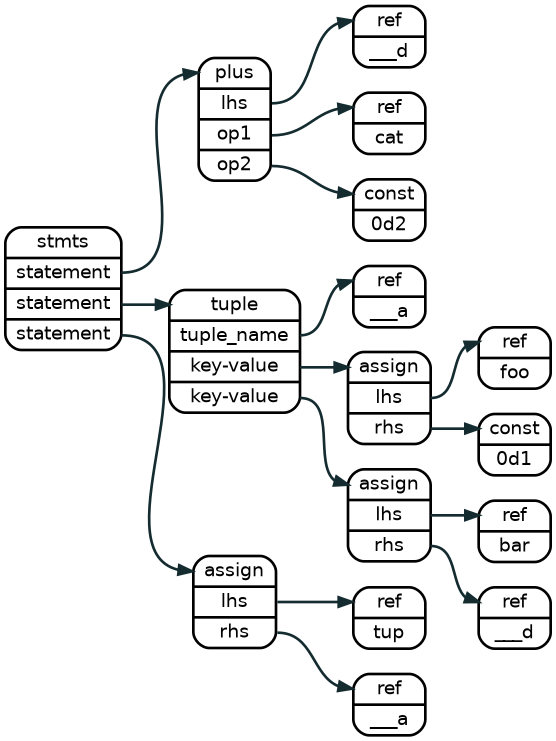
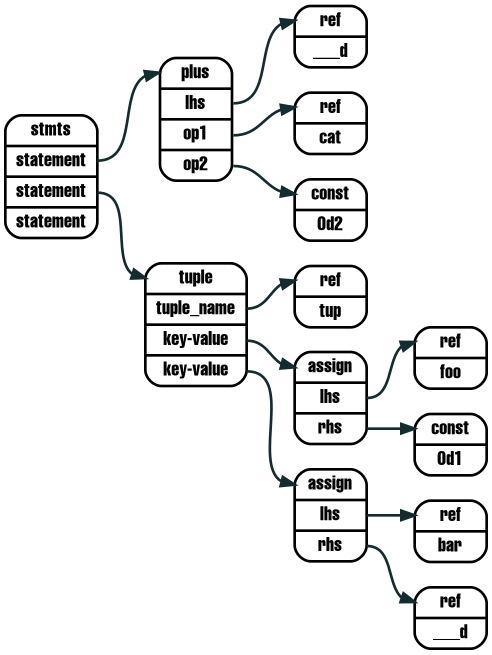
change tuple name connection

Changed region(s): [[0.0, 0.0, 1.0, 1.0], [0.2439, 0.6412, 0.2744, 0.7328], [0.2744, 0.7328, 0.3049, 0.7634]]

diff --git a/index.html b/index.html
@@ -703,7 +703,7 @@ tup_t tup;
 <span class="hljs-keyword">auto</span> idx_op2     = lnast-&gt;add_child(idx_plus,   LNast_node::create_const   (token_4)); <span class="hljs-comment">//string_view = "0d2"</span>
 
 <span class="hljs-keyword">auto</span> idx_tup     = lnast-&gt;add_child(idx_stmts0, Lnast_node::create_tuple   (token_5)); 
-<span class="hljs-keyword">auto</span> idx_tname   = lnast-&gt;add_child(idx_tup,    Lnast_node::create_ref     (token_6)); <span class="hljs-comment">//string_view = "___a"</span>
+<span class="hljs-keyword">auto</span> idx_tname   = lnast-&gt;add_child(idx_tup,    Lnast_node::create_ref     (token_6)); <span class="hljs-comment">//string_view = "tup"</span>
 <span class="hljs-keyword">auto</span> idx_assign  = lnast-&gt;add_child(idx_tup,    Lnast_node::create_assign  (token_7));
 <span class="hljs-keyword">auto</span> idx_lhs     = lnast-&gt;add_child(idx_assign, LNast_node::create_ref     (token_8)); <span class="hljs-comment">//string_view = "foo"</span>
 <span class="hljs-keyword">auto</span> idx_op3     = lnast-&gt;add_child(idx_assign, LNast_node::create_const   (token_9)); <span class="hljs-comment">//string_view = "0d1"</span>
@@ -711,10 +711,6 @@ tup_t tup;
 <span class="hljs-keyword">auto</span> idx_assign  = lnast-&gt;add_child(idx_tup,    Lnast_node::create_assign  (token_a));
 <span class="hljs-keyword">auto</span> idx_lhs     = lnast-&gt;add_child(idx_assign, LNast_node::create_ref     (token_b)); <span class="hljs-comment">//string_view = "bar"</span>
 <span class="hljs-keyword">auto</span> idx_op4     = lnast-&gt;add_child(idx_assign, LNast_node::create_ref     (token_c)); <span class="hljs-comment">//string_view = "___d"</span>
-
-<span class="hljs-keyword">auto</span> idx_assign  = lnast-&gt;add_child(idx_stmts0, Lnast_node::create_assign  (token_d));
-<span class="hljs-keyword">auto</span> idx_lhs     = lnast-&gt;add_child(idx_assign, LNast_node::create_ref     (token_e)); <span class="hljs-comment">//string_view = "tup"</span>
-<span class="hljs-keyword">auto</span> idx_op6     = lnast-&gt;add_child(idx_assign, LNast_node::create_ref     (token_f)); <span class="hljs-comment">//string_view = "___a"</span>
 </code></pre>
 <p><img src="source/graphviz/tuple.png" alt="assign"></p>
 <h2 id="tuple-concatenation-statement">Tuple Concatenation Statement</h2>
@@ -729,10 +725,9 @@ tup = tup ++ (4, dog)
 <pre class="highlight tab tab-shell"><code>// CFG 
 1       0       x       SEQ0
 4       1       x       0       33      +       ___d    cat     0d2
-2       1       x       TUP0    ___a
+2       1       x       TUP0    tup
 3       2       x       0       33      =       foo     0d1
 5       2       x       0       33      =       bar     ___d
-6       1       x       0       33      =       tup     ___a
 7       1       x       TUP1    ___f
 8       7       x       35      54      =       null    0d4
 9       7       x       35      54      =       null    dog
@@ -746,7 +741,7 @@ tup = tup ++ (4, dog)
 <span class="hljs-keyword">auto</span> idx_op2     = lnast-&gt;add_child(idx_plus,   LNast_node::create_const   (token_4)); <span class="hljs-comment">//string_view = "0d2"</span>
 
 <span class="hljs-keyword">auto</span> idx_tup     = lnast-&gt;add_child(idx_stmts0, Lnast_node::create_tuple   (token_5)); 
-<span class="hljs-keyword">auto</span> idx_tname   = lnast-&gt;add_child(idx_tup,    Lnast_node::create_ref     (token_6)); <span class="hljs-comment">//string_view = "___a"</span>
+<span class="hljs-keyword">auto</span> idx_tname   = lnast-&gt;add_child(idx_tup,    Lnast_node::create_ref     (token_6)); <span class="hljs-comment">//string_view = "tup"</span>
 
 <span class="hljs-keyword">auto</span> idx_assign  = lnast-&gt;add_child(idx_tup,    Lnast_node::create_assign  (token_7));
 <span class="hljs-keyword">auto</span> idx_lhs     = lnast-&gt;add_child(idx_assign, LNast_node::create_ref     (token_8)); <span class="hljs-comment">//string_view = "foo"</span>
@@ -756,12 +751,9 @@ tup = tup ++ (4, dog)
 <span class="hljs-keyword">auto</span> idx_lhs     = lnast-&gt;add_child(idx_assign, LNast_node::create_ref     (token_b)); <span class="hljs-comment">//string_view = "bar"</span>
 <span class="hljs-keyword">auto</span> idx_op4     = lnast-&gt;add_child(idx_assign, LNast_node::create_ref     (token_c)); <span class="hljs-comment">//string_view = "___d"</span>
 
-<span class="hljs-keyword">auto</span> idx_assign  = lnast-&gt;add_child(idx_stmts0, Lnast_node::create_assign  (token_d));
-<span class="hljs-keyword">auto</span> idx_lhs     = lnast-&gt;add_child(idx_assign, LNast_node::create_ref     (token_e)); <span class="hljs-comment">//string_view = "tup"</span>
-<span class="hljs-keyword">auto</span> idx_op6     = lnast-&gt;add_child(idx_assign, LNast_node::create_ref     (token_f)); <span class="hljs-comment">//string_view = "___a"</span>
 
 <span class="hljs-keyword">auto</span> idx_tup2    = lnast-&gt;add_child(idx_stmts0, Lnast_node::create_tuple   (token_g))
-<span class="hljs-keyword">auto</span> idx_tname   = lnast-&gt;add_child(idx_tup2,   Lnast_node::create_ref     (token_h)); <span class="hljs-comment">//string_view = "___f"</span>
+<span class="hljs-keyword">auto</span> idx_tname   = lnast-&gt;add_child(idx_tup2,   Lnast_node::create_ref     (token_h)); <span class="hljs-comment">//string_view = "___f", for intermediate temp tuple</span>
 <span class="hljs-keyword">auto</span> idx_assign  = lnast-&gt;add_child(idx_tup2,   Lnast_node::create_assign  (token_h));
 <span class="hljs-keyword">auto</span> idx_lhs     = lnast-&gt;add_child(idx_assign, LNast_node::create_ref     (token_i)); <span class="hljs-comment">//string_view = "null"</span>
 <span class="hljs-keyword">auto</span> idx_op7     = lnast-&gt;add_child(idx_assign, LNast_node::create_const   (token_j)); <span class="hljs-comment">//string_view = "0d4"</span>

diff --git a/source/includes/_ntype.md b/source/includes/_ntype.md
@@ -458,7 +458,7 @@ auto idx_op1     = lnast->add_child(idx_plus,   LNast_node::create_ref     (toke
 auto idx_op2     = lnast->add_child(idx_plus,   LNast_node::create_const   (token_4)); //string_view = "0d2"
 
 auto idx_tup     = lnast->add_child(idx_stmts0, Lnast_node::create_tuple   (token_5)); 
-auto idx_tname   = lnast->add_child(idx_tup,    Lnast_node::create_ref     (token_6)); //string_view = "___a"
+auto idx_tname   = lnast->add_child(idx_tup,    Lnast_node::create_ref     (token_6)); //string_view = "tup"
 auto idx_assign  = lnast->add_child(idx_tup,    Lnast_node::create_assign  (token_7));
 auto idx_lhs     = lnast->add_child(idx_assign, LNast_node::create_ref     (token_8)); //string_view = "foo"
 auto idx_op3     = lnast->add_child(idx_assign, LNast_node::create_const   (token_9)); //string_view = "0d1"
@@ -466,10 +466,6 @@ auto idx_op3     = lnast->add_child(idx_assign, LNast_node::create_const   (toke
 auto idx_assign  = lnast->add_child(idx_tup,    Lnast_node::create_assign  (token_a));
 auto idx_lhs     = lnast->add_child(idx_assign, LNast_node::create_ref     (token_b)); //string_view = "bar"
 auto idx_op4     = lnast->add_child(idx_assign, LNast_node::create_ref     (token_c)); //string_view = "___d"
-
-auto idx_assign  = lnast->add_child(idx_stmts0, Lnast_node::create_assign  (token_d));
-auto idx_lhs     = lnast->add_child(idx_assign, LNast_node::create_ref     (token_e)); //string_view = "tup"
-auto idx_op6     = lnast->add_child(idx_assign, LNast_node::create_ref     (token_f)); //string_view = "___a"
 ```
 
 ![assign](source/graphviz/tuple.png)
@@ -492,10 +488,9 @@ tup = tup ++ (4, dog)
 // CFG 
 1       0       x       SEQ0
 4       1       x       0       33      +       ___d    cat     0d2
-2       1       x       TUP0    ___a
+2       1       x       TUP0    tup
 3       2       x       0       33      =       foo     0d1
 5       2       x       0       33      =       bar     ___d
-6       1       x       0       33      =       tup     ___a
 7       1       x       TUP1    ___f
 8       7       x       35      54      =       null    0d4
 9       7       x       35      54      =       null    dog
@@ -511,7 +506,7 @@ auto idx_op1     = lnast->add_child(idx_plus,   LNast_node::create_ref     (toke
 auto idx_op2     = lnast->add_child(idx_plus,   LNast_node::create_const   (token_4)); //string_view = "0d2"
 
 auto idx_tup     = lnast->add_child(idx_stmts0, Lnast_node::create_tuple   (token_5)); 
-auto idx_tname   = lnast->add_child(idx_tup,    Lnast_node::create_ref     (token_6)); //string_view = "___a"
+auto idx_tname   = lnast->add_child(idx_tup,    Lnast_node::create_ref     (token_6)); //string_view = "tup"
 
 auto idx_assign  = lnast->add_child(idx_tup,    Lnast_node::create_assign  (token_7));
 auto idx_lhs     = lnast->add_child(idx_assign, LNast_node::create_ref     (token_8)); //string_view = "foo"
@@ -521,12 +516,9 @@ auto idx_assign  = lnast->add_child(idx_tup,    Lnast_node::create_assign  (toke
 auto idx_lhs     = lnast->add_child(idx_assign, LNast_node::create_ref     (token_b)); //string_view = "bar"
 auto idx_op4     = lnast->add_child(idx_assign, LNast_node::create_ref     (token_c)); //string_view = "___d"
 
-auto idx_assign  = lnast->add_child(idx_stmts0, Lnast_node::create_assign  (token_d));
-auto idx_lhs     = lnast->add_child(idx_assign, LNast_node::create_ref     (token_e)); //string_view = "tup"
-auto idx_op6     = lnast->add_child(idx_assign, LNast_node::create_ref     (token_f)); //string_view = "___a"
 
 auto idx_tup2    = lnast->add_child(idx_stmts0, Lnast_node::create_tuple   (token_g))
-auto idx_tname   = lnast->add_child(idx_tup2,   Lnast_node::create_ref     (token_h)); //string_view = "___f"
+auto idx_tname   = lnast->add_child(idx_tup2,   Lnast_node::create_ref     (token_h)); //string_view = "___f", for intermediate temp tuple
 auto idx_assign  = lnast->add_child(idx_tup2,   Lnast_node::create_assign  (token_h));
 auto idx_lhs     = lnast->add_child(idx_assign, LNast_node::create_ref     (token_i)); //string_view = "null"
 auto idx_op7     = lnast->add_child(idx_assign, LNast_node::create_const   (token_j)); //string_view = "0d4"
